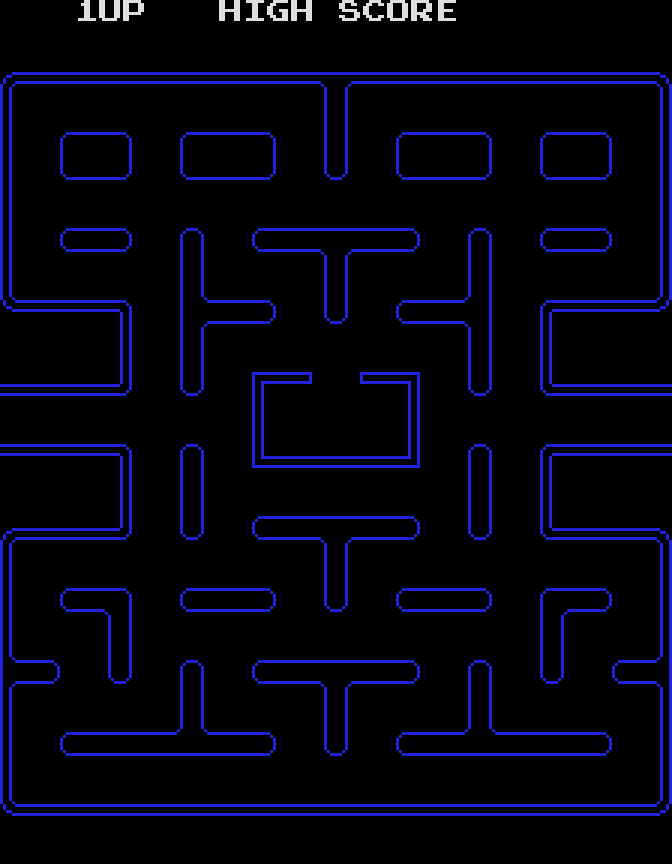
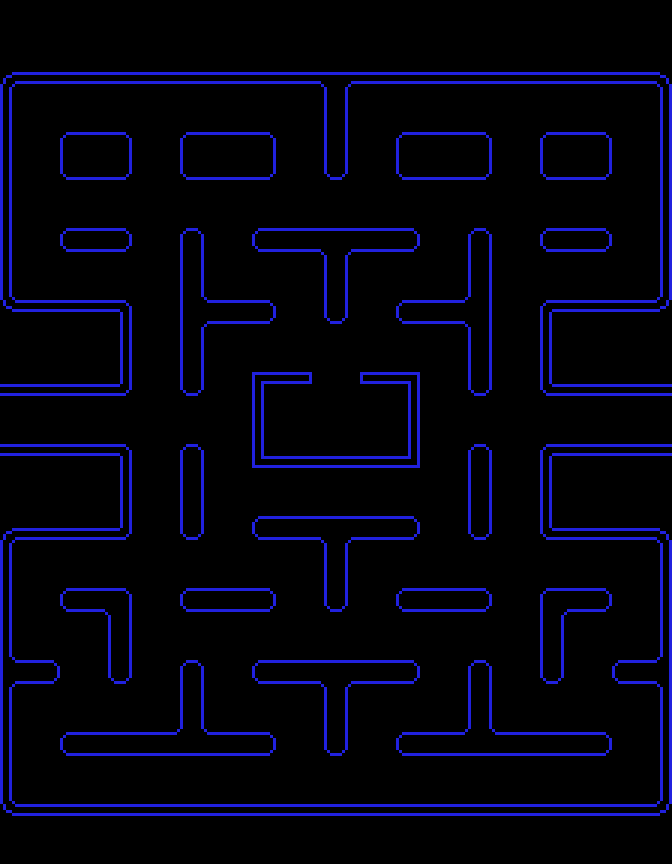
Added menu button to header
Added menu button, difficulty and shape selection.
Added score and lives remaining to HUD.

Changed region(s): [[0.5, 0.0, 0.6875, 0.0312], [0.3125, 0.0, 0.4688, 0.0312], [0.125, 0.0, 0.2188, 0.0312]]

diff --git a/pacman_game/view/popover_menu.py b/pacman_game/view/popover_menu.py
@@ -1,0 +1,74 @@
+from gi.repository import Gtk
+
+class ToggleGroup(Gtk.ButtonBox):
+    def __init__(self, a, b, c, **kwargs):
+        super().__init__(**kwargs)
+        self._button_a = Gtk.ToggleButton.new_with_label(a)
+        self._button_a.set_visible(True)
+        self._button_a.connect("button-press-event", self._on_click)
+        self._button_a.set_active(True)
+        self._button_b = Gtk.ToggleButton.new_with_label(b)
+        self._button_b.set_visible(True)
+        self._button_b.connect("button-press-event", self._on_click)
+        self._button_c = Gtk.ToggleButton.new_with_label(c)
+        self._button_c.set_visible(True)
+        self._button_c.connect("button-press-event", self._on_click)
+        self.add(self._button_a)
+        self.add(self._button_b)
+        self.add(self._button_c)
+        self.set_layout(Gtk.ButtonBoxStyle.EXPAND)
+        self.set_visible(True)
+    
+    def _on_click(self, widget, event):
+        self._button_a.set_active(False)
+        self._button_b.set_active(False)
+        self._button_c.set_active(False)
+    
+    def disable(self):
+        self._button_a.set_sensitive(False)
+        self._button_b.set_sensitive(False)
+        self._button_c.set_sensitive(False)
+    
+    def enable(self):
+        self._button_a.set_sensitive(True)
+        self._button_b.set_sensitive(True)
+        self._button_c.set_sensitive(True)
+    
+    @property
+    def selection(self):
+        if self._button_a.get_active():
+            return 0
+        elif self._button_b.get_active():
+            return 1
+        elif self._button_c.get_active():
+            return 2
+
+class PopoverMenu(Gtk.PopoverMenu):
+    def __init__(self, **kwargs):
+        super().__init__(**kwargs)
+        self._difficulty_box = ToggleGroup("Easy", "Medium", "Hard")
+        self._shape_box = ToggleGroup("Rectangular", "Hexagonal", "Graph")
+        self._box = Gtk.Box()
+        self._box.set_orientation(Gtk.Orientation.VERTICAL)
+        self._box.add(self._difficulty_box)
+        self._box.add(self._shape_box)
+        self._box.set_visible(True)
+        self.add(self._box)
+    
+    def disable(self):
+        self._difficulty_box.disable()
+        self._shape_box.disable()
+    
+    def enable(self):
+        self._difficulty_box.enable()
+        self._shape_box.enable()
+        
+    @property
+    def difficulty(self):
+        lst = ["easy", "medium", "hard"]
+        return lst[self._difficulty_box.selection]
+        
+    @property
+    def shape(self):
+        lst = ["rectangular", "hexagonal", "graph"]
+        return lst[self._shape_box.selection]

diff --git a/pacman_game/view/window.py b/pacman_game/view/window.py
@@ -16,20 +16,61 @@
 from gi.repository import Gtk
 from .banner_view import BannerView
 from .game_view import GameView
+from .popover_menu import PopoverMenu
+    
+
+class MenuButton(Gtk.MenuButton):
+    def __init__(self, **kwargs):
+        super().__init__(**kwargs)
+        self.set_visible(True)
+        self.set_can_focus(True)
+        self.set_image(Gtk.Image.new_from_icon_name("open-menu-symbolic", Gtk.IconSize.MENU))
+        self._popover = PopoverMenu()
+        self.set_popover(self._popover)
+    
+    def disable(self):
+        self.set_sensitive(False)
+        self._popover.disable()
+    
+    def enable(self):
+        self.set_sensitive(True)
+        self._popover.enable()
+        
+    @property
+    def difficulty(self):
+        return self._popover.difficulty
+        
+    @property
+    def shape(self):
+        return self._popover.shape
 
 class TitleBar(Gtk.HeaderBar):
-    def __init__(self, controller, **kwargs):
+    def __init__(self, **kwargs):
         super().__init__(**kwargs)
-        self._controller = controller
         self.set_title("Pacman")
         self.set_show_close_button(True)
         self.set_visible(True)
+        self._menu_button = MenuButton()
+        self.pack_end(self._menu_button)
+    
+    def disable(self):
+        self._menu_button.disable()
+    
+    def enable(self):
+        self._menu_button.enable()
+        
+    @property
+    def difficulty(self):
+        return self._menu_button.difficulty
+        
+    @property
+    def shape(self):
+        return self._menu_button.shape
 
 class PacmanWindow(Gtk.ApplicationWindow):
-    def __init__(self, controller, **kwargs):
+    def __init__(self, **kwargs):
         super().__init__(**kwargs)
-        self._controller = controller
-        self._titlebar = TitleBar(controller)
+        self._titlebar = TitleBar()
         self.set_titlebar(self._titlebar)
         self.set_resizable(False)
         self._view = None
@@ -44,3 +85,17 @@ class PacmanWindow(Gtk.ApplicationWindow):
             self.remove(self._view)
         self._view = view
         self.add(view)
+    
+    def disable(self):
+        self._titlebar.disable()
+    
+    def enable(self):
+        self._titlebar.enable()
+        
+    @property
+    def difficulty(self):
+        return self._titlebar.difficulty
+        
+    @property
+    def shape(self):
+        return self._titlebar.shape

diff --git a/pacman_game/model/game.py b/pacman_game/model/game.py
@@ -7,8 +7,10 @@ from .inky import Inky
 from .clyde import Clyde
 
 class GameState:
-    def __init__(self):
+    def __init__(self, difficulty, shape):
         """! Construct a new GameState object."""
+        self.difficulty = difficulty
+        self.shape = shape
         self.lives = 3
         self.score = 0
         self._arena = Arena()
@@ -21,11 +23,6 @@ class GameState:
         }
         self._dots = self._arena.dots()
         self._powers = self._arena.powers()
-        self._chase_duration = 5.0
-        self._scatter_duration = 20.0
-        self._frighten_duration = 7.0
-        self.current_ghost_behaviour = "scatter"
-        self.ghost_behaviour_duration = self._scatter_duration
         self.power_state = False
         self.over = False
         self.ghost_behaviour_start_time = time.monotonic()
@@ -35,13 +32,25 @@ class GameState:
     def chase_duration(self):
         return self._chase_duration
     
+    @chase_duration.setter
+    def chase_duration(self, duration):
+        self._chase_duration = duration
+    
     @property
     def scatter_duration(self):
         return self._scatter_duration
     
+    @scatter_duration.setter
+    def scatter_duration(self, duration):
+        self._scatter_duration = duration
+    
     @property
     def frighten_duration(self):
         return self._frighten_duration
+    
+    @frighten_duration.setter
+    def frighten_duration(self, duration):
+        self._frighten_duration = duration
     
     @property
     def start_time(self):

diff --git a/pacman_game/game.py b/pacman_game/game.py
@@ -20,16 +20,20 @@ class Game(Gtk.Application):
     def do_activate(self):
         self._win = self.props.active_window
         if not self._win:
-            self._win = PacmanWindow(self._controller, application=self)
+            self._win = PacmanWindow(application=self)
             self._display_banner("START", self.start_game)
         self._win.present()
     
     def start_game(self):
-        controller = self._controller.start_game()
+        self._win.disable()
+        difficulty = self._win.difficulty
+        shape = self._win.shape
+        controller = self._controller.start_game(difficulty, shape)
         view = GameView(controller, controller.state, self._display_banner)
         self._win.view = view
 
     def _display_banner(self, condition, score = None):
+        self._win.enable()
         if condition == "win":
             message = "WIN"
         elif condition == "lose":

diff --git a/pacman_game/controller/game_controller.py b/pacman_game/controller/game_controller.py
@@ -15,6 +15,11 @@ class InternalController:
             "pinky": BlinkyController(ghosts["pinky"]),
         }
         self._current_time = time.monotonic()
+        self.state.chase_duration = 5.0
+        self.state.scatter_duration = 20.0
+        self.state.frighten_duration = 7.0
+        self.state.current_ghost_behaviour = "scatter"
+        self.state.ghost_behaviour_duration = self.state.scatter_duration
     
     @property
     def state(self):
@@ -127,6 +132,6 @@ class GameController:
     def __init__(self):
         pass
     
-    def start_game(self):
-        state = GameState()
+    def start_game(self, difficulty, shape):
+        state = GameState(difficulty, shape)
         return InternalController(state)

diff --git a/pacman_game/view/game_view.py b/pacman_game/view/game_view.py
@@ -42,6 +42,19 @@ class GameView(Gtk.DrawingArea):
         for ghost in self._ghost_views:
             self._ghost_views[ghost].draw(cr)
         self._avatar_view.draw(cr)
+        self._draw_hud(cr)
+    
+    def _draw_hud(self, cr):
+        cr.set_font_size(24)
+        cr.set_source_rgb(1.0, 1.0, 1.0)
+        cr.move_to(60, 24)
+        cr.show_text("LIVES")
+        cr.move_to(60, 48)
+        cr.show_text(str(self._state.lives))
+        cr.move_to(320, 24)
+        cr.show_text("HIGH SCORE")
+        cr.move_to(320, 48)
+        cr.show_text(str(self._state.score))
     
     def tick(self):
         self.queue_draw()

diff --git a/pacman_game/controller/ghost_controller.py b/pacman_game/controller/ghost_controller.py
@@ -46,6 +46,8 @@ class GhostController(MovingSpriteController):
 
     def _distance(self, direction, target):
         next_tile = self.from_pos.neighbour(direction)
+        if next_tile is None or target is None:
+            return 1000.0
         dx = (next_tile.x - target.x) ** 2.0
         dy = (next_tile.y - target.y) ** 2.0
         return dx + dy
